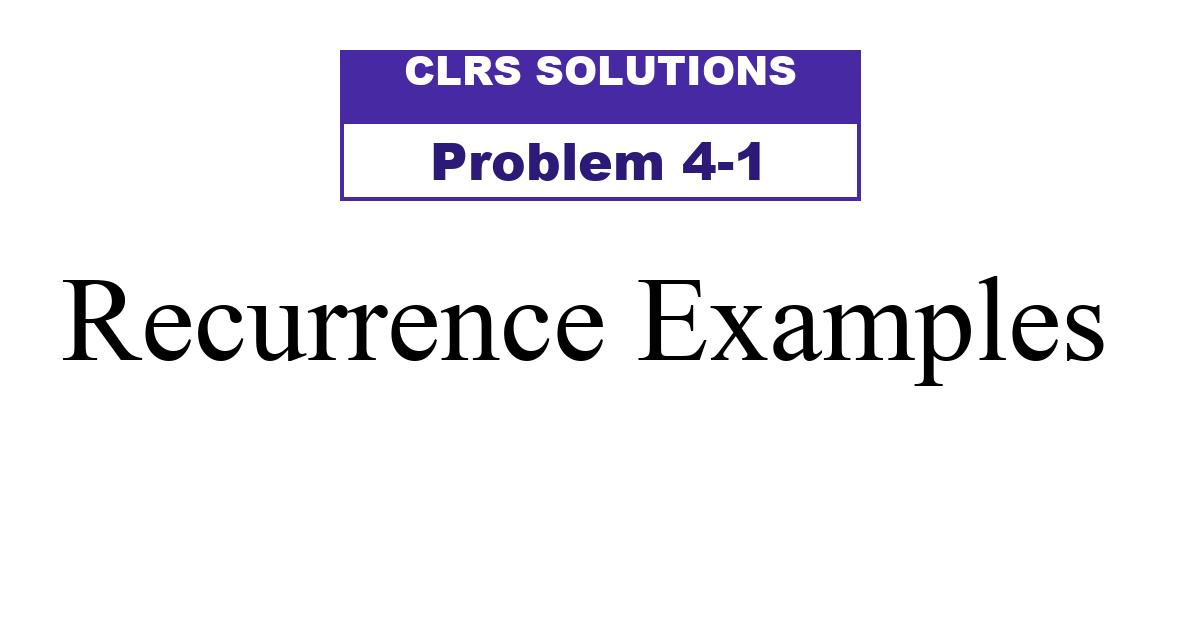
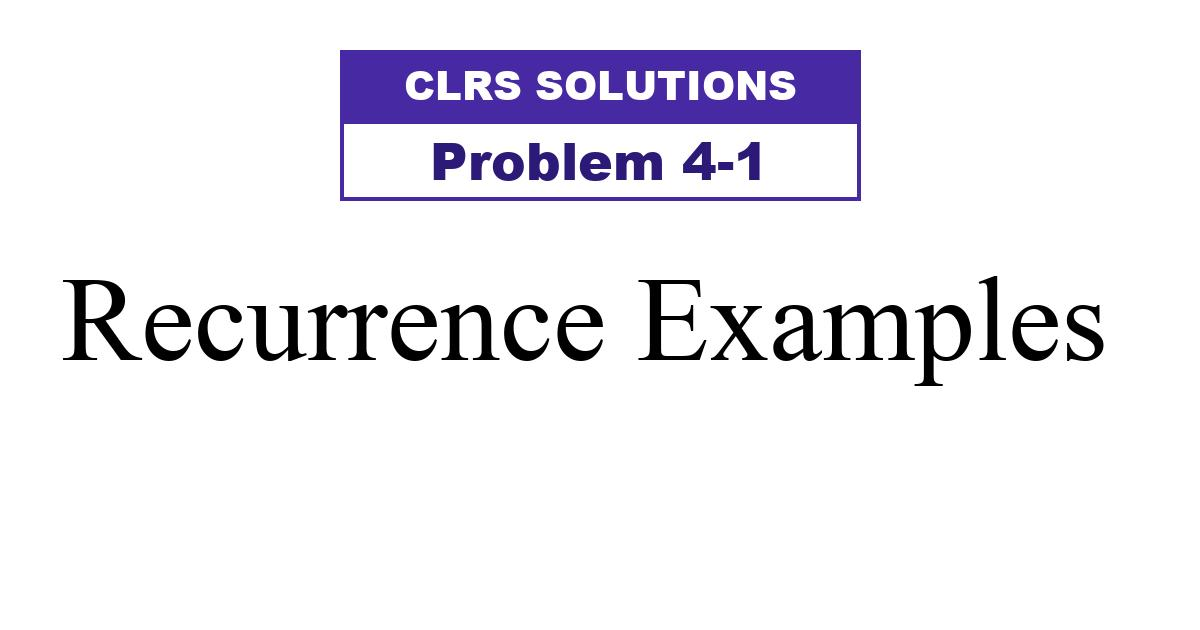
Update image generation script to fix vertical alignment of header

Changed region(s): [[0.3392, 0.0905, 0.6783, 0.181]]

diff --git a/utils/GenerateImage.py b/utils/GenerateImage.py
@@ -7,7 +7,17 @@ from the CLRS (Introduction to Algorithms) textbook. Each image includes:
 - The exercise/problem identifier
 - The section/problem title from toc.json
 
-Usage:
+Command-Line Usage:
+    # Generate an exercise image
+    python3 utils/GenerateImage.py 5 1 2
+
+    # Generate a problem image (use 0 for section)
+    python3 utils/GenerateImage.py 5 0 3
+
+    # Generate appendix exercise image
+    python3 utils/GenerateImage.py A 1 1
+
+Python API Usage:
     from GenerateImage import CreateImage, CreateImageDirect
 
     # Generate an exercise image
@@ -25,8 +35,10 @@ convention: {chapter}.{section}-{problem_id}.jpg for exercises, or
 {chapter}-{problem_id}.jpg for problems.
 """
 
+import argparse
 import json
 import os
+import sys
 from typing import Any, Union
 from PIL import Image, ImageDraw, ImageFont
 
@@ -116,7 +128,7 @@ def _draw_image_template(
 
     # "CLRS SOLUTIONS" text
     draw.text(
-        (center_x, HEADER_Y + HEADER_HEIGHT/2),
+        (center_x, HEADER_Y + HEADER_HEIGHT - 20),
         "CLRS SOLUTIONS",
         font=arial_black_40,
         fill=COLOR_WHITE,
@@ -245,3 +257,71 @@ def CreateImage(chapter: Union[int, str], section: int, problem_id: int) -> None
     # Save image
     output_path = os.path.join(image_folder, image_filename)
     img.save(output_path)
+
+
+def main() -> int:
+    """
+    Command-line interface for generating CLRS solution images.
+
+    Returns:
+        Exit code (0 for success, 1 for error)
+    """
+    parser = argparse.ArgumentParser(
+        description="Generate social media preview images for CLRS solutions",
+        formatter_class=argparse.RawDescriptionHelpFormatter,
+        epilog="""
+Examples:
+  # Generate image for Exercise 5.1-2
+  python GenerateImage.py 5 1 2
+
+  # Generate image for Problem 5-3 (use 0 for section)
+  python GenerateImage.py 5 0 3
+
+  # Generate image for Appendix A Exercise A.1-1
+  python GenerateImage.py A 1 1
+        """
+    )
+
+    parser.add_argument(
+        "chapter",
+        help="Chapter number (integer) or appendix letter (e.g., 'A', 'B')"
+    )
+    parser.add_argument(
+        "section",
+        type=int,
+        help="Section number (use 0 for chapter problems, >0 for section exercises)"
+    )
+    parser.add_argument(
+        "problem_id",
+        type=int,
+        help="Exercise/problem number within the section"
+    )
+
+    args = parser.parse_args()
+
+    # Convert chapter to int if it's a digit, otherwise keep as string (appendix)
+    try:
+        chapter = int(args.chapter)
+    except ValueError:
+        chapter = args.chapter.upper()
+        if not chapter.isalpha() or len(chapter) != 1:
+            print(f"Error: Chapter must be a number or a single letter (A-Z)", file=sys.stderr)
+            return 1
+
+    try:
+        CreateImage(chapter, args.section, args.problem_id)
+
+        # Print success message
+        if args.section > 0:
+            print(f"✓ Generated image for Exercise {chapter}.{args.section}-{args.problem_id}")
+        else:
+            print(f"✓ Generated image for Problem {chapter}-{args.problem_id}")
+
+        return 0
+    except Exception as e:
+        print(f"Error: {e}", file=sys.stderr)
+        return 1
+
+
+if __name__ == "__main__":
+    sys.exit(main())

diff --git a/.claude/commands/generate-solutions.md b/.claude/commands/generate-solutions.md
@@ -31,8 +31,8 @@ Generate complete solutions for **Chapter {1} Problems** of CLRS.
 
 3. **Images** (`assets/img/{1:02d}/`)
    - Generate social media preview images for ALL problems
-   - Use `GenerateImage.py` directly: `from utils.GenerateImage import CreateImage`
-   - Call `CreateImage(chapter={1}, section=0, problem_id=N)` for problems
+   - Use command-line interface: `python3 utils/GenerateImage.py {1} 0 N`
+   - Arguments: chapter, section (0 for problems), problem_id
    - Image naming: `{1}-N.jpg` (no section number)
    - Verify all images generated successfully
 
@@ -68,8 +68,8 @@ Generate complete solutions for **Chapter {1}, Section {2}** of CLRS.
 
 3. **Images** (`assets/img/{1:02d}/`)
    - Generate social media preview images for ALL exercises
-   - Use `GenerateImage.py` directly: `from utils.GenerateImage import CreateImage`
-   - Call `CreateImage(chapter={1}, section={2}, problem_id=N)` for exercises
+   - Use command-line interface: `python3 utils/GenerateImage.py {1} {2} N`
+   - Arguments: chapter, section, problem_id
    - Verify all images generated successfully
 
 4. **Table of Contents**

diff --git a/.claude/commands/review-solutions.md b/.claude/commands/review-solutions.md
@@ -33,7 +33,7 @@ Perform a comprehensive review of solutions for **Chapter {1}, Section {2}**.
 - [ ] Naming: `E{1:02d}.{2:02d}-NN.md` for exercises
 - [ ] Images exist: `assets/img/{1:02d}/{1}.{2}-N.jpg`
 {% endif %}
-- [ ] Images are ~35-45 KB each
+- [ ] Images are ~30-75 KB each
 - [ ] `_data/toc.json` updated correctly
 {% if {2} == 0 %}
 - [ ] Problem count matches actual number of solutions
